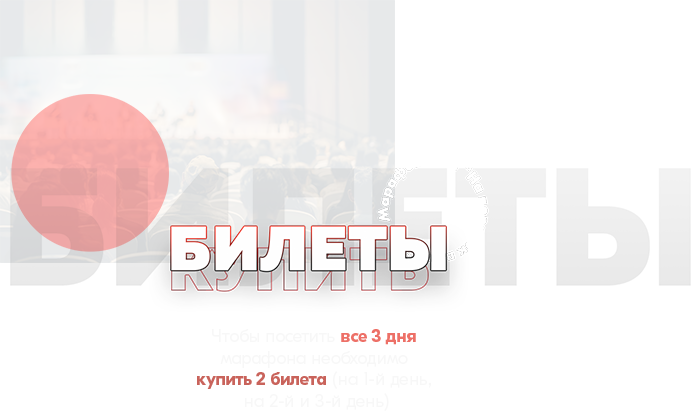
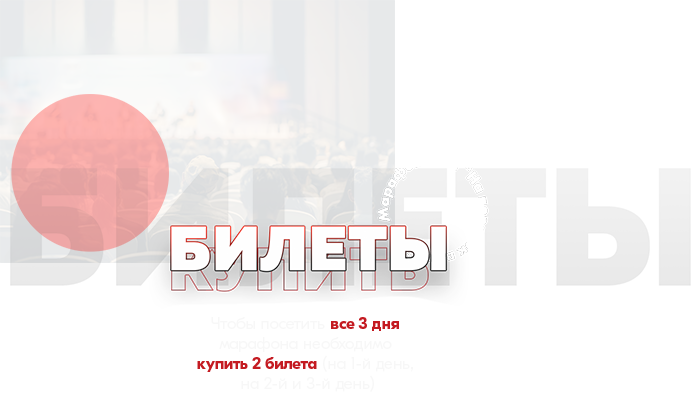
fixed footer

Changed region(s): [[0.2735, 0.8467, 0.4863, 0.9343], [0.4863, 0.7591, 0.6078, 0.8467]]

diff --git a/css/style.css b/css/style.css
@@ -872,8 +872,8 @@
 }
 
 .wrapper .ruvim-pro-section .block__ruvim .play__button {
-  width: 18px;
-  height: 18px;
+  width: 16px;
+  height: 16px;
 }
 
 .wrapper .ruvim-pro-section .block__ruvim .text {
@@ -889,7 +889,7 @@
   font-style: normal;
   letter-spacing: 0.45px;
   line-height: normal;
-  text-decoration: underline;
+  text-decoration: none;
   /* Text style for "о мероприя" */
   font-style: normal;
   letter-spacing: 0.45px;
@@ -1273,13 +1273,13 @@
     left top,
     color-stop(40%, transparent),
     color-stop(22%, transparent),
-    color-stop(76%, #7b2124)
+    color-stop(76%, #c41b22)
   );
   border-image: linear-gradient(
     to top,
     transparent 40%,
     transparent 22%,
-    #7b2124 76%
+    #c41b22 76%
   );
   border-image-slice: 23;
 }
@@ -1956,11 +1956,7 @@ overflow: hidden;
   }
 }
 
-/* @media (max-width: 768px) {
-  .wrapper .days-section img {
-    width: 100%;
-  }
-} */
+
 
 @media (max-width: 768px) {
   .wrapper .days-section img {
@@ -1983,11 +1979,6 @@ overflow: hidden;
   }
 }
 
-@media (max-width: 421px) {
-  .wrapper .days-section img {
-    margin-left: 32px;
-  }
-}
 
 @media (max-width: 376px) {
   .wrapper .days-section img {
@@ -2066,7 +2057,7 @@ overflow: hidden;
     to top,
     transparent 8%,
     transparent 22%,
-    #7b2124 76%
+    #c41b22 76%
   );
   border-image: -webkit-gradient(
     linear,
@@ -2074,13 +2065,13 @@ overflow: hidden;
     left top,
     color-stop(8%, transparent),
     color-stop(22%, transparent),
-    color-stop(76%, #7b2124)
+    color-stop(76%, #c41b22)
   );
   border-image: linear-gradient(
     to top,
     transparent 8%,
     transparent 22%,
-    #7b2124 76%
+    #c41b22 76%
   );
   border-image-slice: 23;
 }
@@ -3912,7 +3903,7 @@ margin-left: -30px;
   width: 296px;
   height: 47px;
   border-radius: 23px;
-  border-color:red;
+  border-color: #c41b22;
   background-color: #282828;
   margin-top: 10px;
   padding-left: 50px;
@@ -4473,7 +4464,7 @@ margin-left: -30px;
   }
 }
 
-@media (max-width: 576px) {
+@media (min-width: 576px) {
   .wrapper .footer-section  .footer__links__mobile {
 display: none;
   }
